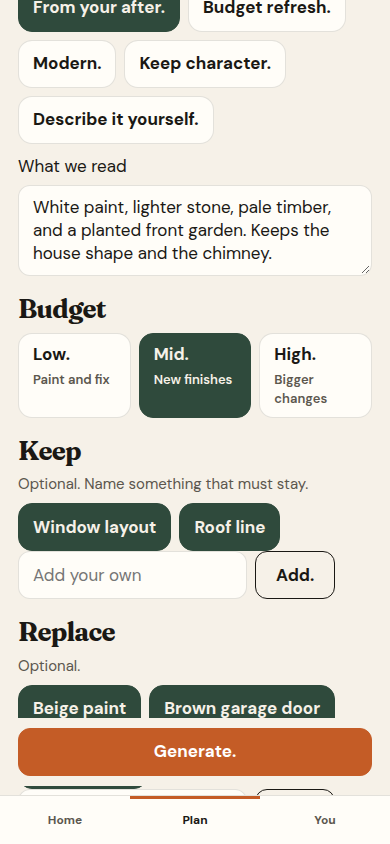
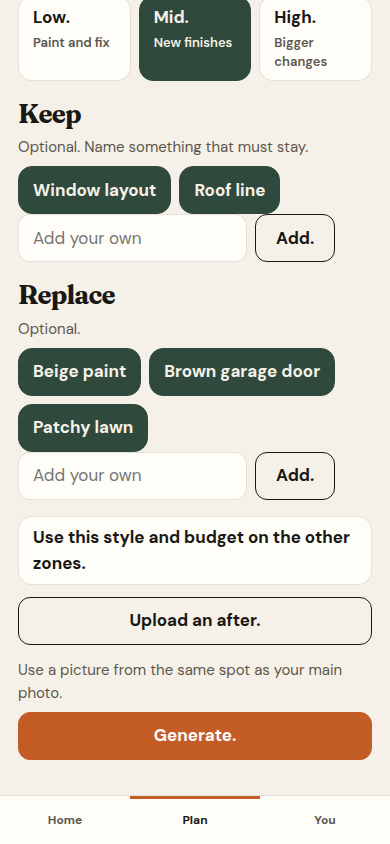
Put the one upload pair after the guides.
Generate stays below Style, Budget, Keep, and Replace, so a following zone still picks its own budget. The gallery keeps What changes and the drift link, and those can scroll clear of Approve.

diff --git a/src/pages/Capture.tsx b/src/pages/Capture.tsx
@@ -5,7 +5,7 @@ import { SUGGESTIONS, STYLE_CHIPS, TIER_CHIPS } from "../data/guides";
 import { unanswered } from "../data/questions";
 import { ABOUT_ONE_MEGAPIXEL, type StyleId, type Tier } from "../lib/prompt";
 import { canOfferAfterUpload } from "../lib/reading";
-import { ActionBar, TopBar } from "../components/Chrome";
+import { TopBar } from "../components/Chrome";
 import { activePlan, linkFor, photosFor } from "../state/select";
 import { useRenovate } from "../state/store";
 
@@ -37,7 +37,6 @@ export default function Capture() {
   const cameraRef = useRef<HTMLInputElement>(null);
   const uploadRef = useRef<HTMLInputElement>(null);
   const afterRef = useRef<HTMLInputElement>(null);
-  const generateRef = useRef<HTMLButtonElement>(null);
   const [style, setStyle] = useState<StyleId | undefined>(link?.style);
   const [styleNote, setStyleNote] = useState(link?.readLine ?? link?.styleNote ?? "");
   const [budget, setBudget] = useState<Tier | undefined>(link?.budget);
@@ -48,7 +47,6 @@ export default function Capture() {
   const [used, setUsed] = useState("");
   const [photoError, setPhotoError] = useState(false);
   const [uploadError, setUploadError] = useState(false);
-  const [pinGenerate, setPinGenerate] = useState(false);
   const suggestions = SUGGESTIONS[zone?.key ?? ""] ?? { keep: [], replace: [] };
   const hasBefore = canOfferAfterUpload(photos.length);
 
@@ -61,19 +59,6 @@ export default function Capture() {
     setUsed("");
     setUploadError(false);
   }, [zoneId]);
-
-  useEffect(() => {
-    const node = generateRef.current;
-    if (!node || !hasBefore) {
-      setPinGenerate(false);
-      return;
-    }
-    const observer = new IntersectionObserver(([entry]) => {
-      setPinGenerate(entry ? !entry.isIntersecting : false);
-    }, { threshold: 0.6 });
-    observer.observe(node);
-    return () => observer.disconnect();
-  }, [hasBefore, zoneId]);
 
   if (!plan || !zone || !link) {
     return (
@@ -172,7 +157,7 @@ export default function Capture() {
   const making = busyZoneId === zoneId && busyMode === "generate";
 
   return (
-    <div className={`page ${hasBefore ? "has-action" : ""}`}>
+    <div className="page">
       <TopBar title={zone.name} />
       <div className="photo-row">
         {photos.map((photo) => (
@@ -215,38 +200,7 @@ export default function Capture() {
         </div>
       )}
 
-      {hasBefore ? (
-        <div className="thumb-paths">
-          <p className="meta">{copy.sameSpot}</p>
-          <button className="btn btn-outline btn-wide" type="button" disabled={reading} onClick={() => afterRef.current?.click()}>
-            {reading ? copy.reading : copy.uploadAfter}
-          </button>
-          <button
-            ref={generateRef}
-            className="btn btn-primary btn-wide"
-            type="button"
-            disabled={!ready || busyZoneId === zoneId}
-            onClick={() => void onGenerate()}
-          >
-            {making ? copy.making : copy.generate}
-          </button>
-          <input
-            ref={afterRef}
-            className="sr-only"
-            type="file"
-            accept="image/*"
-            onChange={(event) => {
-              void onUploadAfter(event.target.files);
-              event.target.value = "";
-            }}
-          />
-          {!ready ? <p className="meta">{copy.pickStyle}</p> : null}
-          {uploadError ? <p className="warn">{copy.uploadFailed}</p> : null}
-        </div>
-      ) : (
-        <p className="meta">{copy.addPhotos(zone.name)}</p>
-      )}
-
+      {hasBefore ? null : <p className="meta">{copy.addPhotos(zone.name)}</p>}
       <p style={{ marginTop: 16 }}>{copy.tip}</p>
       <p className="meta">{copy.people}</p>
 
@@ -396,8 +350,9 @@ export default function Capture() {
         </button>
       </form>
 
-      {style && budget && state.links.some((item) => item.planId === plan.id && item.zoneId !== zoneId && item.style && item.budget) ? (
+      {style && budget && state.links.some((item) => item.planId === plan.id && item.zoneId !== zoneId) ? (
         <button
+          id="use-style"
           className="choice"
           type="button"
           style={{ width: "100%", marginTop: 16 }}
@@ -412,12 +367,33 @@ export default function Capture() {
       ) : null}
       {used ? <p className="meta">{used}</p> : null}
 
-      {pinGenerate ? (
-        <ActionBar>
-          <button className="btn btn-primary btn-wide" type="button" disabled={!ready || busyZoneId === zoneId} onClick={() => void onGenerate()}>
+      {hasBefore ? (
+        <div className="thumb-paths">
+          <button className="btn btn-outline btn-wide" type="button" disabled={reading} onClick={() => afterRef.current?.click()}>
+            {reading ? copy.reading : copy.uploadAfter}
+          </button>
+          <p className="meta">{copy.sameSpot}</p>
+          <button
+            className="btn btn-primary btn-wide"
+            type="button"
+            disabled={!ready || busyZoneId === zoneId}
+            onClick={() => void onGenerate()}
+          >
             {making ? copy.making : copy.generate}
           </button>
-        </ActionBar>
+          <input
+            ref={afterRef}
+            className="sr-only"
+            type="file"
+            accept="image/*"
+            onChange={(event) => {
+              void onUploadAfter(event.target.files);
+              event.target.value = "";
+            }}
+          />
+          {!ready ? <p className="meta">{copy.pickStyle}</p> : null}
+          {uploadError ? <p className="warn">{copy.uploadFailed}</p> : null}
+        </div>
       ) : null}
     </div>
   );

diff --git a/src/pages/Gallery.tsx b/src/pages/Gallery.tsx
@@ -155,7 +155,25 @@ export default function Gallery() {
           <p className="meta">{copy.useLookHelp}</p>
         </>
       ) : null}
-      {hasUpload && pictures.length > 1 ? (
+      {link?.style && link.budget ? (
+        <div className="chips" style={{ marginTop: 12 }}>
+          <span className="choice" aria-pressed="true">
+            {styleLabel(link.style, link.styleNote, link.style === "from-after" ? fromZone?.name : undefined)}
+          </span>
+          <span className="choice" aria-pressed="true">{tierLabel(link.budget)}</span>
+        </div>
+      ) : null}
+      {changes.length ? (
+        <>
+          <h2 id="what-changes" style={{ marginTop: 16 }}>{copy.whatChanges}</h2>
+          <ul className="changes">
+            {changes.map((item, index) => (
+              <li key={`${index}-${item}`}>{item}</li>
+            ))}
+          </ul>
+        </>
+      ) : null}
+      {pictures.length > 1 ? (
         <div className="photo-row" id="proposal-thumbs" style={{ marginTop: 12 }}>
           {pictures.map((picture) => (
             <button
@@ -170,69 +188,36 @@ export default function Gallery() {
           ))}
         </div>
       ) : null}
-      {showingUploaded ? <p className="meta impression">{copy.uploadedAfter}</p> : null}
-      {link?.style && link.budget ? (
-        <div className="chips" style={{ marginTop: 12 }}>
-          <span className="choice" aria-pressed="true">
-            {styleLabel(link.style, link.styleNote, link.style === "from-after" ? fromZone?.name : undefined)}
-          </span>
-          <span className="choice" aria-pressed="true">{tierLabel(link.budget)}</span>
-        </div>
-      ) : null}
-      {changes.length ? (
-        <>
-          <h2 style={{ marginTop: 16 }}>{copy.whatChanges}</h2>
-          <ul className="changes">
-            {changes.map((item, index) => (
-              <li key={`${index}-${item}`}>{item}</li>
-            ))}
-          </ul>
-        </>
-      ) : null}
-      {!hasUpload && pictures.length > 1 ? (
-        <div className="photo-row" style={{ marginTop: 12 }}>
-          {pictures.map((picture) => (
-            <button
-              key={picture.id}
-              type="button"
-              className="thumb"
-              aria-pressed={picture.id === current?.id}
-              onClick={() => setSelected(picture.id)}
-            >
-              <img src={picture.imageUrl} alt="" />
-            </button>
-          ))}
-        </div>
-      ) : null}
-      {showingUploaded ? null : <p className="meta impression">{copy.impression}</p>}
+      {showingUploaded ? <p className="meta impression">{copy.uploadedAfter}</p> : <p className="meta impression">{copy.impression}</p>}
       {link?.lastFailed ? <p className="warn" style={{ marginTop: 10 }}>{copy.failure}</p> : null}
       {busyZoneId === zone?.id ? <p className="meta">{copy.making}</p> : null}
       {zone && link ? (
-        <>
-          <button
-            id="drift-link"
-            className="text-btn drift-link"
-            type="button"
-            disabled={left === 0}
-            onClick={() => {
-              setKeepDraft(link.keep.join("\n"));
-              setDriftOpen(true);
-            }}
-          >
-            {copy.drift}
+        <button
+          id="drift-link"
+          className="text-btn drift-link"
+          type="button"
+          disabled={left === 0}
+          onClick={() => {
+            setKeepDraft(link.keep.join("\n"));
+            setDriftOpen(true);
+          }}
+        >
+          {copy.drift}
+        </button>
+      ) : null}
+      {zone && link && !driftOpen && !pushOpen ? (
+        <div className="try-row" id="try-row" style={{ marginTop: 8 }}>
+          <button id="try-again" className="btn btn-outline" type="button" disabled={left === 0 || busyZoneId === zone.id} onClick={() => void retry(false)}>
+            {retryLabel}
           </button>
-        </>
+          <span className="meta">{copy.triesLeft(left)}</span>
+        </div>
       ) : null}
 
       {driftOpen || pushOpen || !zone || !link ? null : (
         <ActionBar>
-          <div className="try-row">
-            <button id="try-again" className="btn btn-outline" type="button" disabled={left === 0 || busyZoneId === zone.id} onClick={() => void retry(false)}>
-              {retryLabel}
-            </button>
-            <span className="meta">{copy.triesLeft(left)}</span>
-          </div>
           <button
+            id="approve"
             className="btn btn-primary btn-wide"
             type="button"
             disabled={!current && zonePill(state, plan.id, zone) !== "approved"}

diff --git a/src/index.css b/src/index.css
@@ -35,7 +35,7 @@ img {
 }
 
 .page.has-skip {
-  padding-bottom: calc(380px + env(safe-area-inset-bottom));
+  padding-bottom: calc(280px + env(safe-area-inset-bottom));
 }
 
 .thumb-paths {
@@ -535,7 +535,7 @@ h3 {
   grid-template-columns: 1fr 1fr 1fr;
   background: var(--white);
   border-top: 1px solid var(--line);
-  z-index: 10;
+  z-index: 20;
   padding-bottom: env(safe-area-inset-bottom);
 }
 
@@ -562,10 +562,10 @@ h3 {
   position: fixed;
   left: 50%;
   transform: translateX(-50%);
-  bottom: calc(58px + env(safe-area-inset-bottom));
+  bottom: 0;
   width: 100%;
   max-width: 430px;
-  padding: 10px 18px;
+  padding: 10px 18px calc(58px + env(safe-area-inset-bottom));
   background: var(--cream);
   z-index: 12;
   display: flex;
